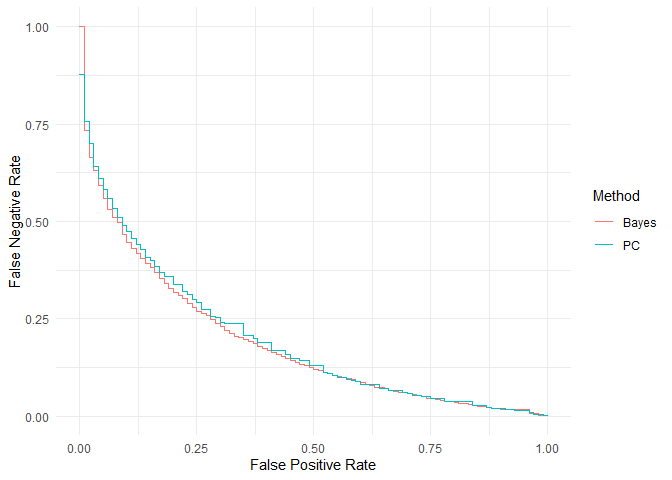
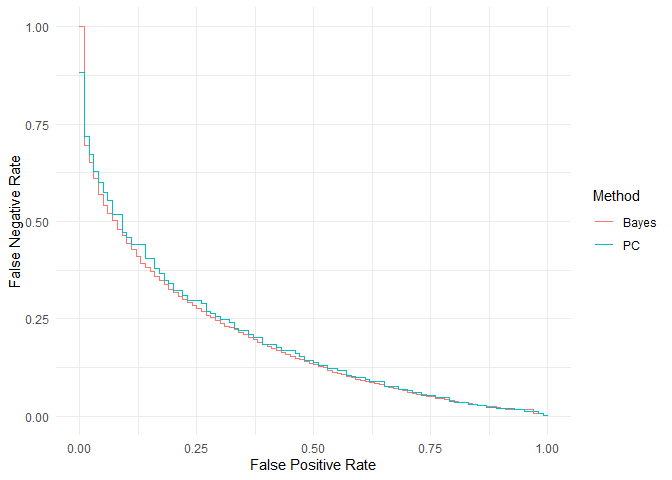
build README

diff --git a/README.md b/README.md
@@ -8,6 +8,7 @@
 [![R-CMD-check](https://github.com/lictr/fahb/actions/workflows/R-CMD-check.yaml/badge.svg)](https://github.com/lictr/fahb/actions/workflows/R-CMD-check.yaml)
 [![Codecov test
 coverage](https://codecov.io/gh/DTWilson/fahb//branch/main/graph/badge.svg)](https://app.codecov.io/gh/DTWilson/fahb)
+[![Downloads](https://cranlogs.r-pkg.org/badges/grand-total/fahb)](https://cran.r-project.org/package=fahb)
 <!-- badges: end -->
 
 The goal of `fahb` is to help with clinical trial **f**easibility
@@ -65,29 +66,29 @@ design <- fahb_design(problem)
 print(design)
 #> Standard progression criteria
 #> 
-#>     FPR        FNR         n_p         m_p        r_p
-#> 1   0.0 0.87800497 14.89113845  5.23821827 11.2983982
-#> 11  0.1 0.47333518  9.75445041 -0.09309377  6.6868158
-#> 21  0.2 0.33766234  5.58934399  0.63584854  6.7071152
-#> 41  0.4 0.18941697  4.14297592  0.66606272  5.3705821
-#> 51  0.5 0.12848853  2.59814424  1.86456234  4.6667348
-#> 71  0.7 0.05733628 -0.15483242  1.23632359  3.6095247
-#> 81  0.8 0.03799392  0.28706465 -0.80286063  3.0726292
-#> 91  0.9 0.01809892 -0.93786254  0.07155125  1.6746750
-#> 101 1.0 0.00000000 -0.05764603 -0.51362184 -0.1510998
+#>     FPR        FNR          n_p         m_p        r_p
+#> 1   0.0 0.88328208 22.851615098 -0.98960856 -0.2890103
+#> 11  0.1 0.45848476  9.761441221  1.08893405  6.4554326
+#> 21  0.2 0.32303606  5.790902485  0.14400397  6.4473718
+#> 41  0.4 0.18479172  3.353734127  0.37796885  5.4091603
+#> 51  0.5 0.13838412  4.294587314 -0.18897587  4.3415980
+#> 71  0.7 0.06429969 -0.113894744  0.01808445  3.7630463
+#> 81  0.8 0.03438636 -0.895428039 -0.88274718  2.8403490
+#> 91  0.9 0.01984904  0.783979938 -0.83004004  1.7569140
+#> 101 1.0 0.00000000 -0.001988417 -0.85413762 -0.7096546
 #> 
 #> Bayesian approximation
 #> 
 #>     FPR        FNR      T_p
-#> 1   0.0 1.00000000 1.370305
-#> 11  0.1 0.44639403 3.119537
-#> 21  0.2 0.31749102 3.294461
-#> 41  0.4 0.16869301 3.563093
-#> 51  0.5 0.12047527 3.688038
-#> 71  0.7 0.05692180 3.900445
-#> 81  0.8 0.03481625 4.009772
-#> 91  0.9 0.01782260 4.184695
-#> 101 1.0 0.00000000 4.475193
+#> 1   0.0 1.00000000 1.296823
+#> 11  0.1 0.44352810 3.125985
+#> 21  0.2 0.31604697 3.293166
+#> 41  0.4 0.17836176 3.568524
+#> 51  0.5 0.13321219 3.683256
+#> 71  0.7 0.06164384 3.909443
+#> 81  0.8 0.03662287 4.011063
+#> 91  0.9 0.01942969 4.102849
+#> 101 1.0 0.00000000 4.211025
 #> 
 #> FPR - False Positive Rate
 #> FNR - False Negative Rate
